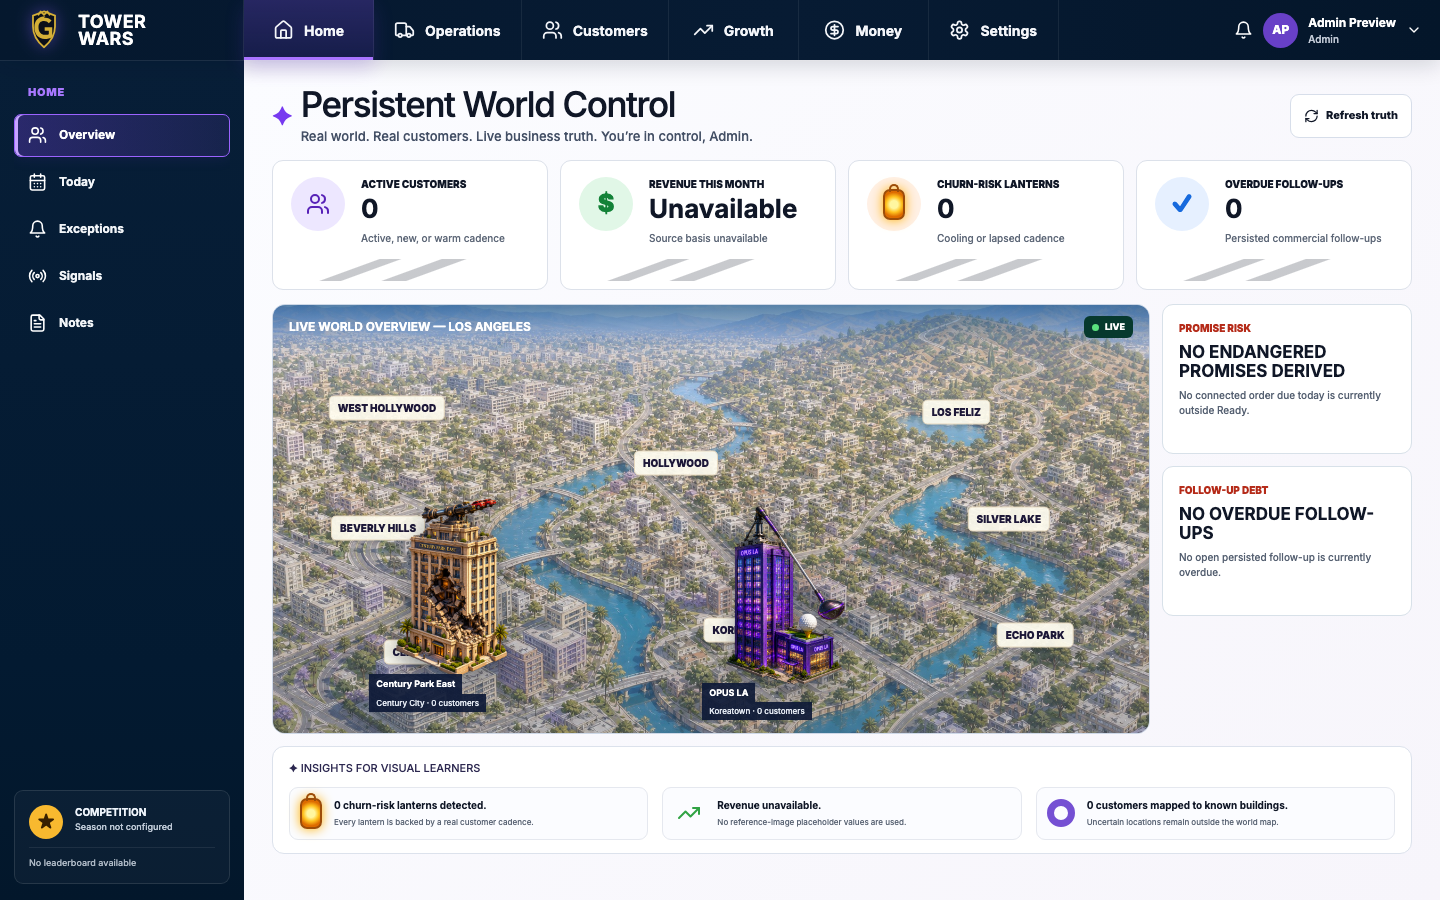
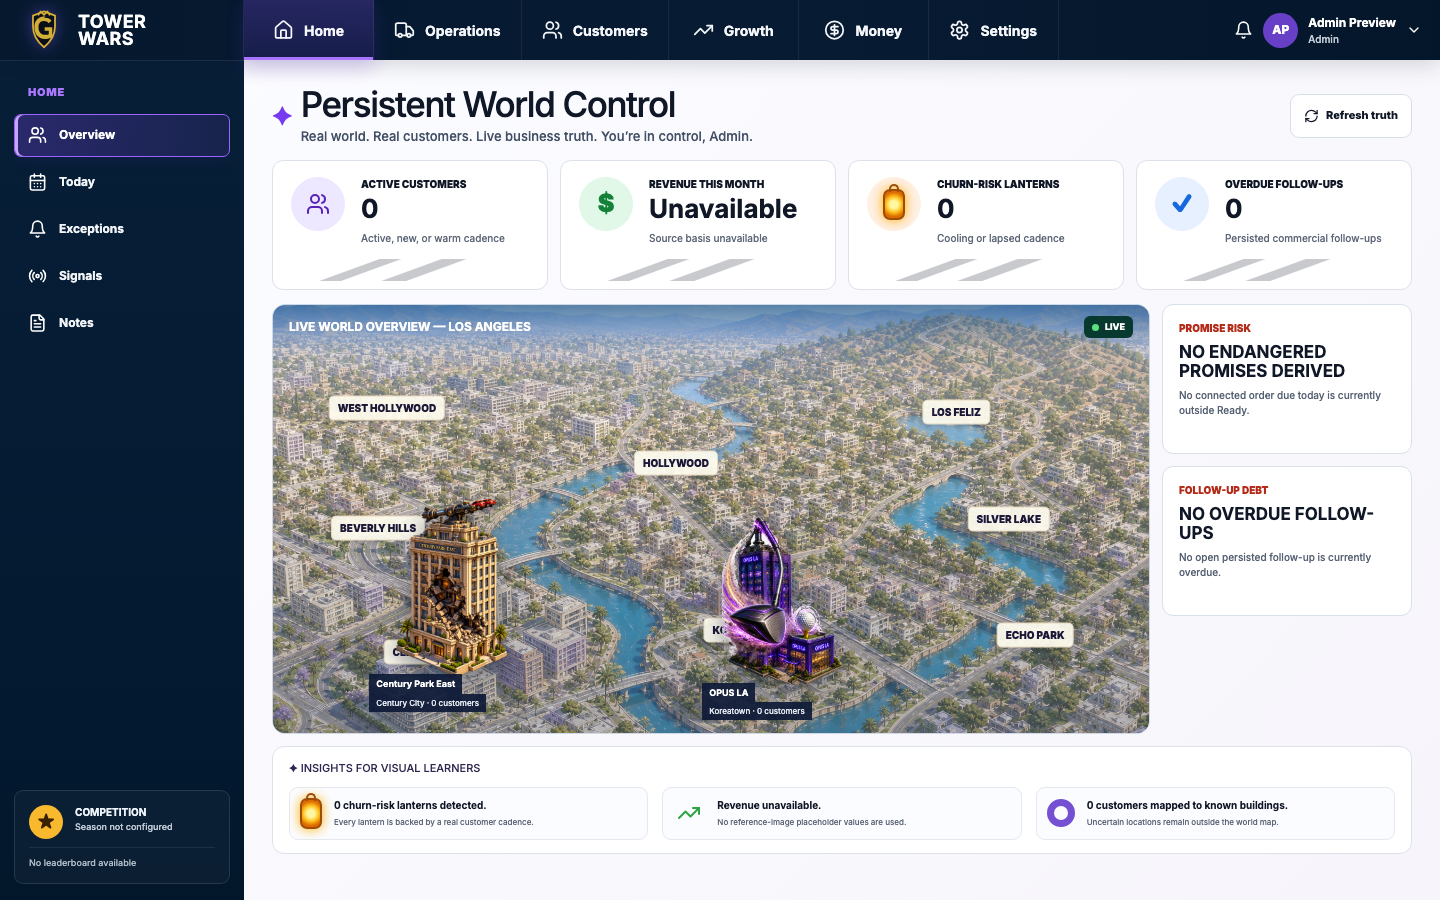
Correct OPUS siege driver silhouette

Changed region(s): [[0.5, 0.56, 0.5938, 0.7778]]

diff --git a/client/src/pages/AdminHome.tsx b/client/src/pages/AdminHome.tsx
@@ -66,7 +66,7 @@ export default function AdminHome({ operatorName = "Admin", path = "/", onNaviga
         <header><strong>Live world overview — Los Angeles</strong><span className={sourceGap ? "has-gap" : ""}><i /> {sourceGap ? "Source gap" : "Live"}</span></header>
         {[{ label: "West Hollywood", x: 13, y: 24 }, { label: "Beverly Hills", x: 12, y: 52 }, { label: "Century City", x: 18, y: 81 }, { label: "Hollywood", x: 46, y: 37 }, { label: "Koreatown", x: 54, y: 76 }, { label: "Los Feliz", x: 78, y: 25 }, { label: "Silver Lake", x: 84, y: 50 }, { label: "Echo Park", x: 87, y: 77 }].map(neighborhood => <span key={neighborhood.label} className="pwc-place" style={{ left: `${neighborhood.x}%`, top: `${neighborhood.y}%` }}>{neighborhood.label}</span>)}
         <button type="button" className="pwc-building cpe" onClick={() => onNavigate("/growth/tower-wars")}><img className="pwc-building-art" src="/assets/admin/control-room/tower-wars/century-park-east-tower-v2.png" alt="" /><strong>Century Park East</strong><small>Century City · {customers.isLoading || customers.isError ? "—" : buildingCounts.century} customers</small></button>
-        <button type="button" className="pwc-building opus" onClick={() => onNavigate("/growth/tower-wars")}><img className="pwc-building-art" src="/assets/admin/control-room/tower-wars/opus-la-tower-v2.png" alt="" /><strong>OPUS LA</strong><small>Koreatown · {customers.isLoading || customers.isError ? "—" : buildingCounts.opus} customers</small></button>
+        <button type="button" className="pwc-building opus" onClick={() => onNavigate("/growth/tower-wars")}><img className="pwc-building-art" src="/assets/admin/control-room/tower-wars/opus-la-siege-driver-v4.png" alt="" /><strong>OPUS LA</strong><small>Koreatown · {customers.isLoading || customers.isError ? "—" : buildingCounts.opus} customers</small></button>
         {churnRisk > 0 ? <button type="button" className="pwc-risk-lantern" onClick={() => onNavigate("/growth/lantern-city")} aria-label={`${churnRisk} churn-risk lanterns`}><span className="pwc-lantern-symbol" /><b>{churnRisk}</b></button> : null}
       </div>
       <aside className="pwc-alerts">

diff --git a/client/src/components/admin/control-room/TowerWars.tsx b/client/src/components/admin/control-room/TowerWars.tsx
@@ -37,7 +37,7 @@ const ACTION_CLASSES = [
 
 function BuildingArt({ opus, name, damage }: { opus: boolean; name: string; damage: TowerDamageState }) {
   const src = opus
-    ? "/assets/admin/control-room/tower-wars/opus-la-tower-v2.png"
+    ? "/assets/admin/control-room/tower-wars/opus-la-siege-driver-v4.png"
     : "/assets/admin/control-room/tower-wars/century-park-east-tower-v2.png";
   const weapon = opus ? "architectural-scale hinged golf driver" : "compact rooftop valet bazooka";
   return <img className="tw-building-layer" src={src} alt={`${name}, ${damage.replace("-", " ")} damage, with ${weapon}`} />;

diff --git a/client/src/pages/AdminHostApp.test.ts b/client/src/pages/AdminHostApp.test.ts
@@ -75,7 +75,7 @@ describe("truth-bound visual rules", () => {
   });
 
   it("uses the dimensional OPUS LA and Century Park East assets on Tower Wars and Home", () => {
-    for (const asset of ["opus-la-tower-v2.png", "century-park-east-tower-v2.png"]) {
+    for (const asset of ["opus-la-siege-driver-v4.png", "century-park-east-tower-v2.png"]) {
       expect(towerSource).toContain(asset);
       expect(homeSource).toContain(asset);
     }
